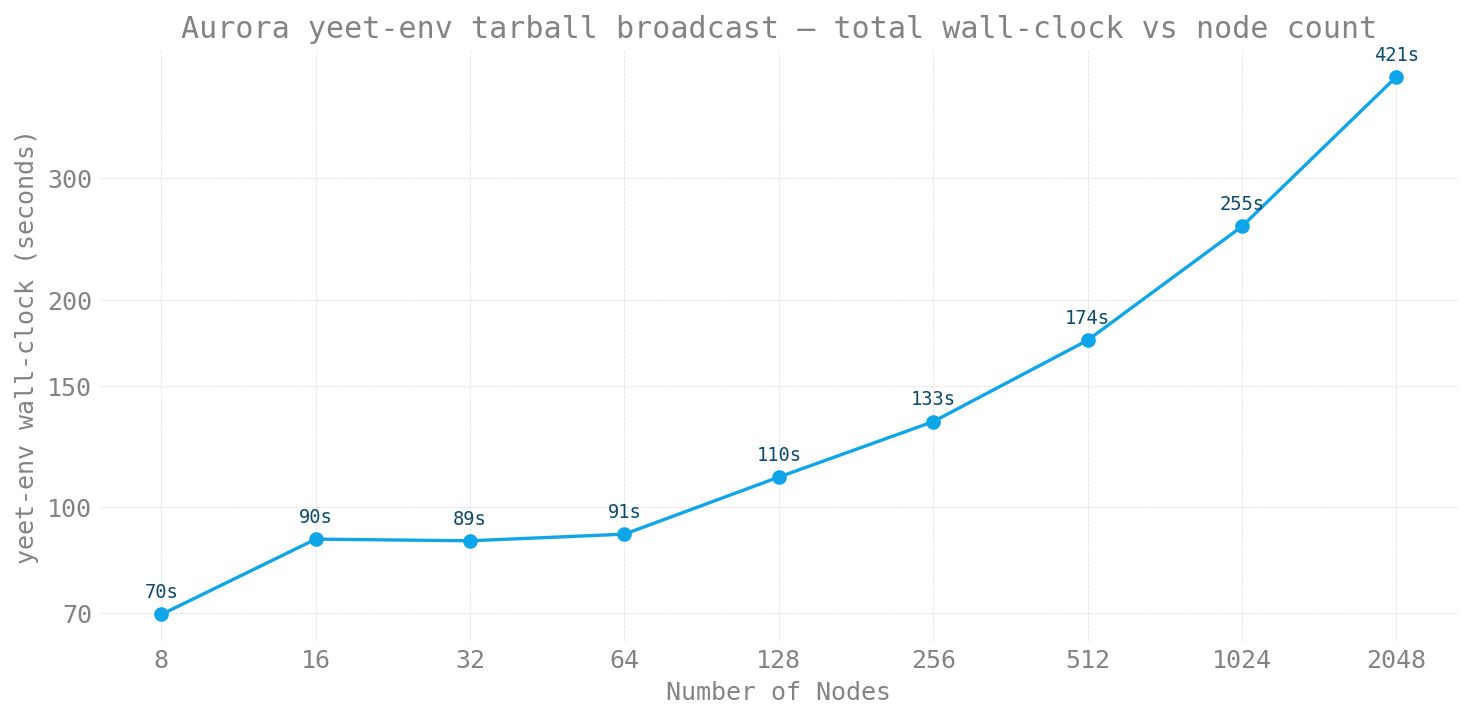
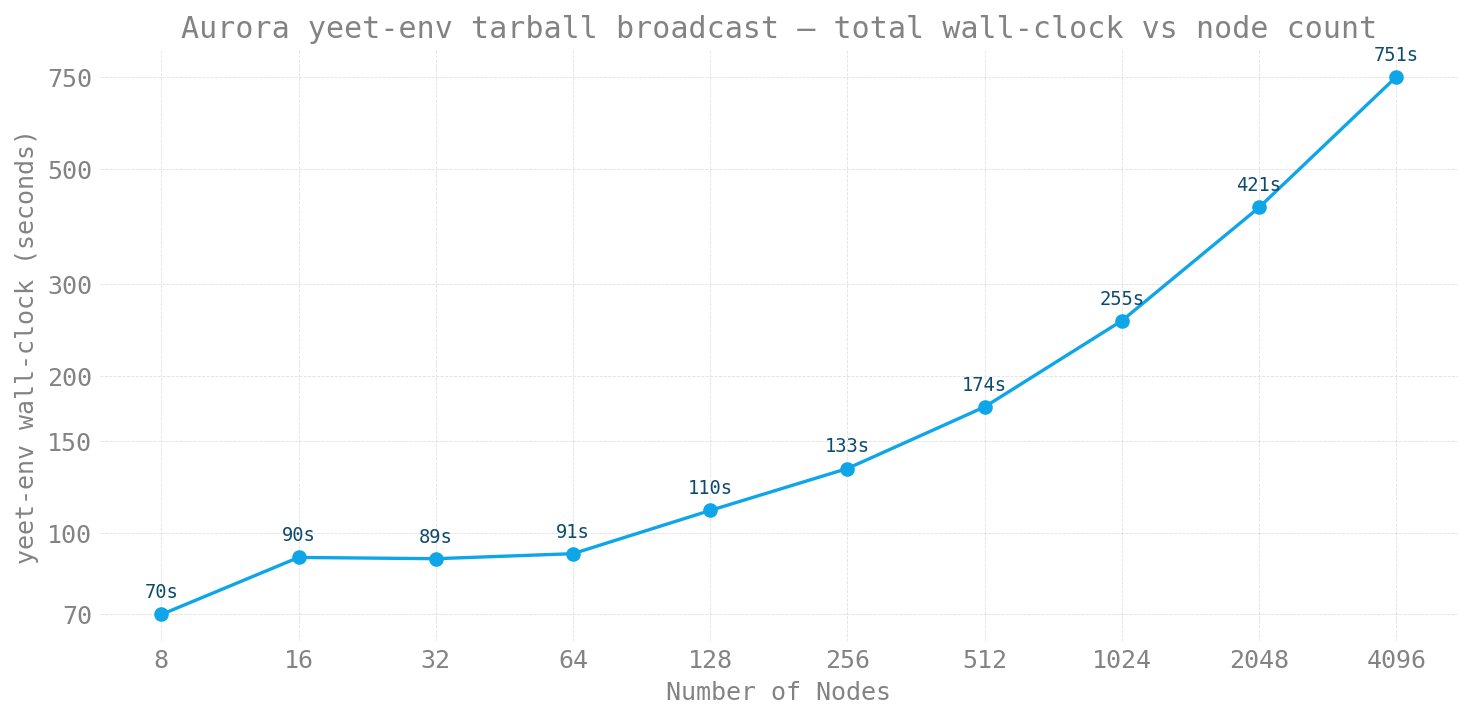
docs(ezpz/scaling/yeet_env): add 4096N data point, complete sweep
4096N landed: 750.6 s wall-clock, 183 ms/node amortized — completes
the 10-point 8-to-4096 sweep.

Per-node cost drops 48× from N=8 (8.7 s/node) to N=4096 (0.18 s/node).
The doubling-overhead in the broadcast-bound regime (≥128N) grows
1.31× → 1.46× → 1.65× → 1.78× as N doubles, consistent with broadcast
tree depth + per-leaf bandwidth contention both contributing.

Updated table, observations, and both log-log plots.

diff --git a/torchtitan/experiments/ezpz/docs/scaling/yeet_env/README.md b/torchtitan/experiments/ezpz/docs/scaling/yeet_env/README.md
@@ -49,8 +49,7 @@ python3 torchtitan/experiments/ezpz/docs/scaling/yeet_env/plot_yeet_env_scaling.
 
 ## Results (2026-04-30 to 2026-05-01)
 
-9 of 10 sweep points landed; 4096N still queued in `large` at time of
-write.
+Full 10-point sweep complete.
 
 | Nodes | yeet-env (s) | Per-node (ms) |
 |------:|-------------:|--------------:|
@@ -63,7 +62,7 @@ write.
 | 512 | 174.5 | 341 |
 | 1024 | 255.4 | 249 |
 | 2048 | 421.4 | 206 |
-| 4096 | (pending) | (pending) |
+| 4096 | 750.6 | 183 |
 
 ![Total wall-clock](figures/yeet_env_seconds.png)
 
@@ -74,12 +73,14 @@ write.
 - **Two regimes**: 8-64N is extract-bound (total wall-clock ~70-91s flat,
   per-node cost falls 8.7s → 1.4s as more nodes share the fixed-cost
   extraction); ≥128N is broadcast-bound (total wall-clock grows
-  linearly-ish up to ~1024N then super-linearly at 2048N).
+  super-linearly).
 - **Per-node amortized cost** drops monotonically from 8.7s/node (N=8)
-  to 0.21s/node (N=2048) — a 42× efficiency gain over the sweep.
+  to 0.18s/node (N=4096) — a **48× efficiency gain** over the sweep.
+- **Doubling overhead** in the broadcast-bound regime: each 2× in
+  nodes adds ~1.5-1.8× wall-clock (256→512 was 1.31×, 512→1024 was
+  1.46×, 1024→2048 was 1.65×, 2048→4096 was 1.78×) — the broadcast
+  tree depth and per-leaf bandwidth contention both grow.
 - **Practical takeaway**: pre-yeet-env overhead at production scale is
-  <8 minutes even at 2048N. The "1-2 hour" estimate in CLAUDE.md was for
-  the pre-tarball per-file rsync mode; tarball broadcast doesn't reach
-  that regime.
-- The 421s at 2048N is still well within the typical PBS startup window
-  for a multi-hour training job.
+  <13 minutes even at 4096N. The "1-2 hour" estimate in CLAUDE.md was
+  for the pre-tarball per-file rsync mode; tarball broadcast doesn't
+  reach that regime even at the full Aurora scale.
